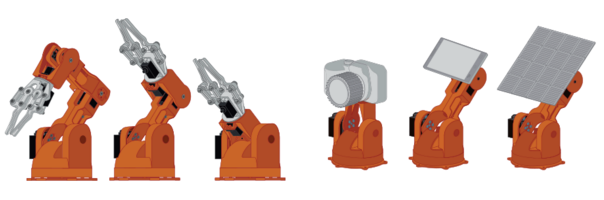
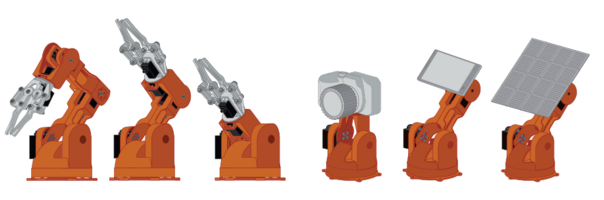
Patch 1 (#10)
* Added tweaks to index.tpl.html

Modified SIC images to be responsive to mobile layouts (max-width=100%). Added details about SIC hardware (users can take them home). Finally, changed the UIST SIC url for submissions.

* Update index.tpl.html

More tweaks. Fixed phrases, fixed typos, general clean-up.

* Modified sic_panel.png

Tweaked vertical position of right panel. Images are now vertically aligned on their baselines.

Changed region(s): [[0.5066, 0.12, 0.9834, 0.93], [0.8344, 0.27, 0.8642, 0.39]]

diff --git a/cfp/index.tpl.html b/cfp/index.tpl.html
@@ -409,7 +409,7 @@
 	<h1>Student Innovation Contest</h1>
 		<table class="dates">
 			<tr>
-				<th aria-label="deadline">Submissions due (submit <a href="https://tinyurl.com/uistsic17">here</a>)</th>
+				<th aria-label="deadline">Submissions due (submit <a href="https://tinyurl.com/uistsic2017">here</a>)</th>
 				<td><time datetime="2017-07-12T12:00-0800">July 18th, 2017 12:00 PDT</time></td>
 			</tr>
 			<tr>
@@ -444,32 +444,35 @@
 
 	<section>
 		<h1>2017 SIC theme: robotic arms</h1>
-			<img src="images/sic/braccio.jpg" alt="">
+			<img src="images/sic/braccio.jpg" alt="" style="max-width:100%;">
 
-			<p>In this UIST Student Innovation Contest (aka the "SIC"), we explore how novel input, interaction, actuation, and output techniques can augment experiences that literally “reach out” into the world! In partnership with <a href="arduino.org">Arduino.org</a>, we are seeking students to help us <b>push the boundaries of input and output techniques on a Arduino Braccio -- a desktop sizedd and fully-customizable, multi-DOF robotic arm</b>! Join the UIST SIC and turn your ideas into reality! Win fabulous prizes! Apply <a href="https://tinyurl.com/uistsic17">here</a> by the 18th of July!.</p>
+			<p>In this UIST Student Innovation Contest (aka the "SIC"), we explore how novel input, interaction, actuation, and output techniques can augment experiences that literally “reach out” into the world! In partnership with <a href="arduino.org">Arduino.org</a>, we are seeking students to help us <b>push the boundaries of input and output techniques on a Arduino Braccio -- a desktop sized and fully-customizable, multi-DOF robotic arm</b>! Join the UIST SIC and turn your ideas into reality! Win fabulous prizes! Apply <a href="https://tinyurl.com/uistsic2017">here</a> by the 18th of July!.</p>
 
 			<p>The UIST SIC is your opportunity to shine and impress the world with your creative ideas! Participants will demo their work during the demo reception at the conference in Quebec City, Canada, and contest winners will be announced at the UIST banquet. A jury of UIST judges will select two winners for the Most Creative and Best Implementation categories. On top of that, conference attendees will get a chance to vote for their favorite teams in the People's Choice category. All categories receive prizes!</p>
+			
+			<p>Unlike previous SICs, this year, <strong>all selected teams will get to keep the hardware. You can bring it home with you!</strong> This is made possible through our generous sponsors!</p>
+			
 	</section>
 
 	<section>
 
 		<h1>Hardware Platform & Ideas</h1>
-			<img src="images/sic/sic_panel.png" alt="">
+			<img src="images/sic/sic_panel.png" alt="" style="max-width:100%;">
 
-			<p>We sought to find a platform that captured the inventive spirit of UIST. This year, we we bring you the <a href="http://www.arduino.org/products/tinkerkit/arduino-tinkerkit-braccio">Arduino Braccio</a>, which is designed for precision and versatility. You can build and design your system in a multitude of configurations, which affords the exploration of numerous design primitives. Examples include:</p>
+			<p>We sought to find a platform that captured the inventive spirit of UIST. This year, we we bring you the <a href="http://www.arduino.org/products/tinkerkit/arduino-tinkerkit-braccio">Arduino Braccio</a>, which is designed for precision and versatility. You can build and design your system in a multitude of configurations, which affords the exploration of numerous design primitives. Examples include:<br/><br/></p>
 			<ul>
-				<li>Physical Design Space:</li>
+				<li><strong>Physical Design Space:</strong></li>
 					<ul>
 						<li>Degrees of freedom: How many joints?</li>
 						<li>Static vs. Dynamic: On table? Wheels? In mid-air?!</li>
 					</ul>
-				<li>Input Space:</li>
+				<li><strong>Input Space:</strong></li>
 					<ul>
 						<li>Classic sensing: IR, acoustics, depth/camera, IMU?</li>
 						<li>Tangible: physical knobs, buttons, touch screens?</li>
 						<li>Abstracted sensing: crowdsourced input, tele-operated?</li>
 					</ul>
-				<li>Output Space:</li>
+				<li><strong>Output Space:</strong></li>
 					<ul>
 						<li>“Reach out” to the world: grasping, poking, drawing, etc.?</li>
 						<li>Self-Expression: react to stimuli in unconventional ways?</li>
@@ -489,7 +492,7 @@
 
 	<section>
 		<h1>Registration</h1>
-		<p> To participate, follow the instructions on this <a href="https://tinyurl.com/uistsic17">form</a>. <b>The submission deadline is July 18th, 2017 12:00 PDT.</b></p>
+		<p> To participate, follow the instructions on this <a href="https://tinyurl.com/uistsic2017">form</a>. <b>The submission deadline is July 18th, 2017 12:00 PDT.</b></p>
 
 		<p>To complete your submission, you’ll need:</p>
 		<ul>
@@ -511,9 +514,9 @@
 	</section>
 
 	<section>
-		<h1>Contest Rules, Details and Suggestions</h1>
+		<h1>Contest Rules, Details, and Suggestions</h1>
 		<ul>
-			<li><b>Pre-election Criteria</b>: organizers will select a maximum of 10 teams, judged based on usefulness, creativity, complexity, feasibility, and time/resource constraints.</li>
+			<li><b>Pre-Selection Criteria</b>: organizers will select a maximum of 10 teams, judged based on usefulness, creativity, complexity, feasibility, and time/resource constraints.</li>
 			<li><b>Team Size</b>: minimum team size is 2, the maximum is 4.</li>
 			<li><b>Team Composition</b>: you can’t be part of multiple teams!</li>
 			<li><b>Eligibility</b>: you MUST be a student to participate in this contest. Students of all levels (high school, bachelor's, master's, PhD) are encouraged to participate. International students are welcome.</li>
@@ -522,9 +525,9 @@
 			<li><b>Demo Code</b>: We encourage you to open-source your code. The organizers will create a github organization where all teams will be expected to post their code (don’t worry, we will not judge you on your code!).</li>
 			<li><b>Demo Safety</b>: Safety is our utmost priority. Make sure your demos following reasonable safety guidelines (i.e., don’t light anything on fire!)</li>
 			<li><b>Extra Equipment</b>: teams must bring supporting computers and hardware to run their demos, including the hardware shipped by the contest organizers. No extra equipment will be handed out at UIST.</li>
-			<li><b>Powering Supply</b>: a North American power strip (NEMA Type A or B, IEC 60906-2) will be provided for each team at their demo table. However, we recommend that you bring your own regional power strip with the appropriate adapter to for connecting your hardware.</li>
+			<li><b>Power Supply</b>: a North American power strip (NEMA Type A or B, IEC 60906-2) will be provided for each team at their demo table. However, we recommend that you bring your own regional power strip with the appropriate adapter for connecting your hardware.</li>
 			<li><b>WiFi</b>: Conference WiFi is available, but keep bandwidth traffic in mind. Teams are welcome to use WiFi as a part of their demos, but we recommend having a Plan B (e.g., a router, a switch, etc)!</li>
-			<li><b>Bluetooth</b>: sure thing but test it beforehand (some bluetooth firmware stresses easily when 300 attendees are around your demo with BT enabled devices) so make sure to have a plan B.</li>
+			<li><b>Bluetooth</b>: sure thing but test it beforehand (some bluetooth firmware are easily stressed when 300 attendees are around your demo with BT enabled devices). Make sure you have a plan B.</li>
 		</ul>
 	</section>
 	<section>
@@ -536,6 +539,11 @@
 			<li>People's Choice (Attendee votes)</li>
 		</ul>
 		<p>Note that we reserve the right to change the awards structure during the contest.</p>
+	</section>
+	
+	<section>
+		<h1>Questions?</h1>
+		<p>Contact the SIC Chairs! <a href="mailto:sic@uist.org">sic@uist.org</a></p>
 	</section>
 
 	<section class="organizers">
